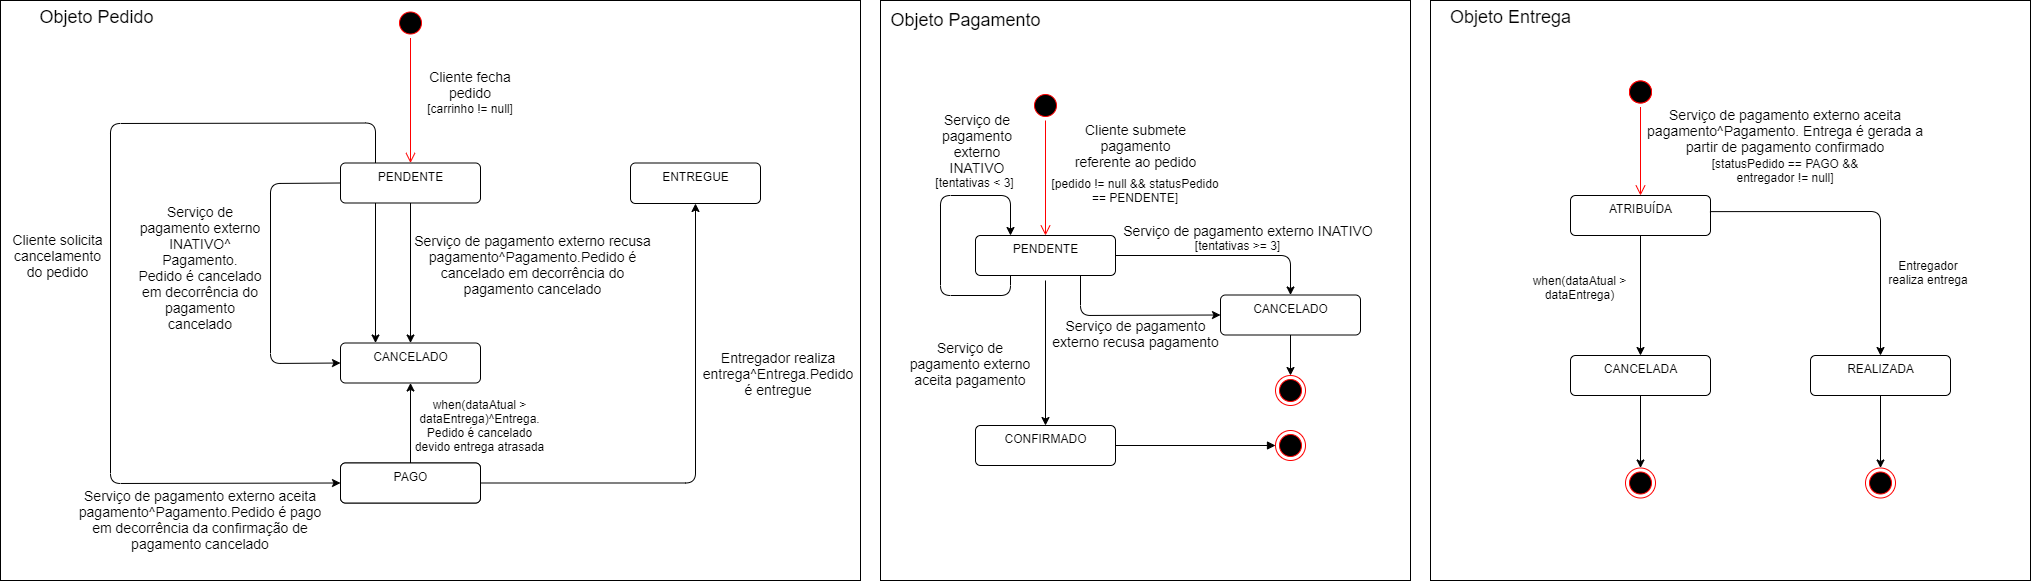
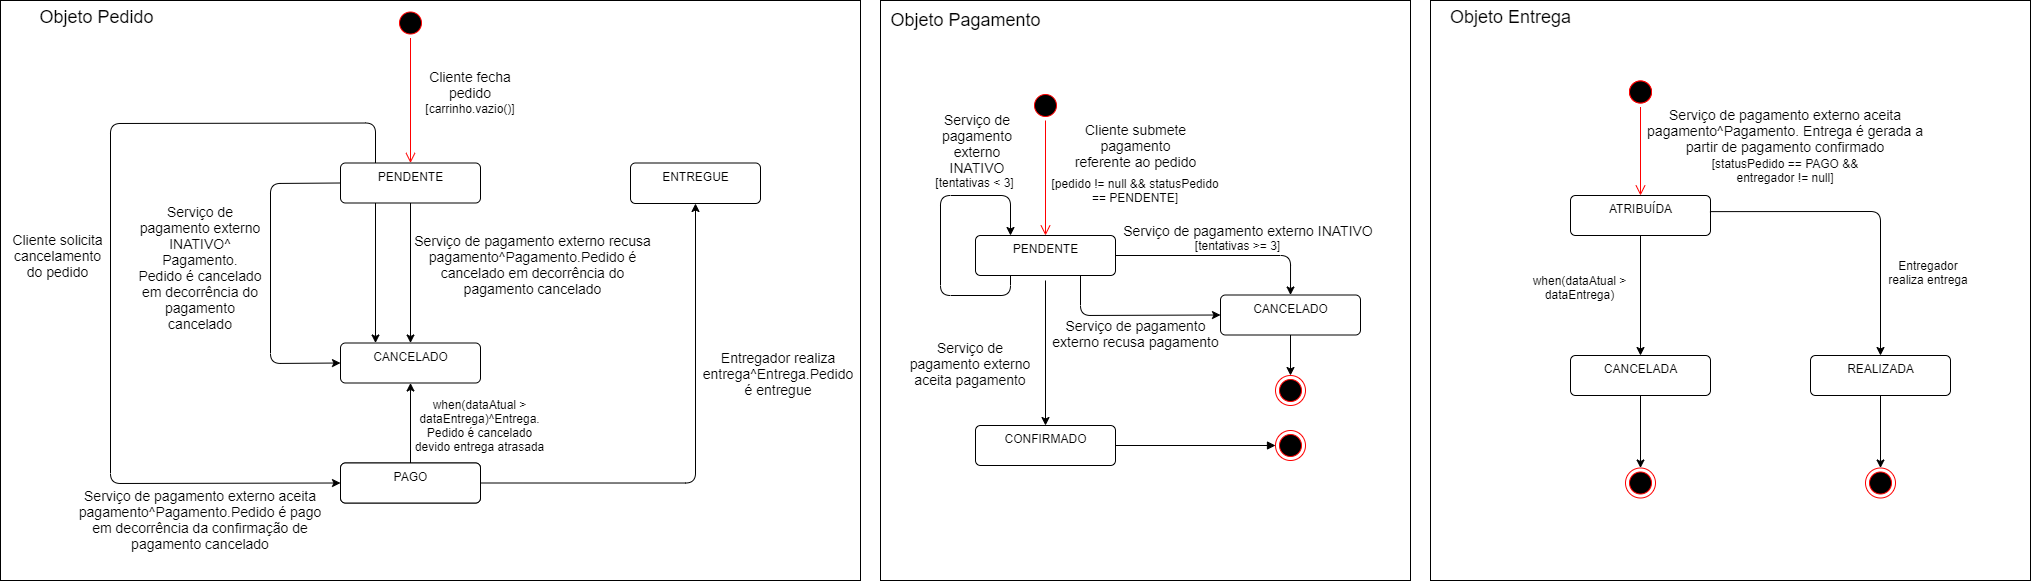
workflow funcional e perfeito

diff --git a/app-services/compras/src/main/java/br/com/ifeira/compra/handlers/HandlerValidacao.java b/app-services/compras/src/main/java/br/com/ifeira/compra/handlers/HandlerValidacao.java
@@ -18,14 +18,39 @@ public class HandlerValidacao extends PagamentoInBaseHandler {
 
     private PersistivelContextual<ProdutoFeira, String> produtoFeiraDAO;
     private Persistivel<Cupom, String> cupomDAO;
+    private JdbcTemplate jdbcTemplate;
 
     public HandlerValidacao(JdbcTemplate jdbcTemplate) {
+        this.jdbcTemplate = jdbcTemplate;
         this.produtoFeiraDAO = new ProdutoFeiraDAO(jdbcTemplate);
         this.cupomDAO = new CupomDAO(jdbcTemplate);
     }
 
+    public Boolean validarCobranca(String cobranca) {
+        return this.jdbcTemplate.query("select\n" +
+                "\tcase\n" +
+                "\t\twhen NUMERO is not null then false\n" +
+                "\t\telse true\n" +
+                "\tend item\n" +
+                "from\n" +
+                "\tPEDIDO p\n" +
+                "where\n" +
+                "\tCOBRANCA = ?", ps -> {
+            ps.setString(1, cobranca);
+        }, rs -> {
+            Boolean valido = true;
+            while (rs.next()) {
+                valido = rs.getBoolean("item");
+            }
+            return valido;
+        });
+    }
+
     @Override
     public PagamentoDTO handle(Pagamento pagamento) throws Exception {
+        Boolean validoCobranca = validarCobranca(pagamento.getPedido().getCobranca());
+        if(!validoCobranca) throw new Exception("Esse pedido já foi feito!");
+
         List<ProdutoQuantidade> prodQtdList = new ArrayList<>();
         for(ProdutoQuantidade pagQtd: pagamento.getPedido().getCarrinho().getListaProdutoQuantidade()) {
             ProdutoFeira produtoFeira = this.produtoFeiraDAO

diff --git a/app-services/compras/src/main/java/br/com/ifeira/compra/controller/PagamentoController.java b/app-services/compras/src/main/java/br/com/ifeira/compra/controller/PagamentoController.java
@@ -11,7 +11,6 @@ import br.com.ifeira.compra.handlers.PagamentoInHandler;
 import br.com.ifeira.compra.shared.dao.Persistivel;
 import br.com.ifeira.compra.shared.dao.PessoaDAO;
 import br.com.ifeira.compra.shared.entity.Pessoa;
-import br.com.ifeira.compra.shared.enums.StatusPagamento;
 import br.com.ifeira.compra.shared.enums.StatusPedido;
 import br.com.ifeira.compra.shared.utils.NotificacaoEmail;
 import br.com.ifeira.compra.shared.utils.Notificavel;
@@ -61,10 +60,10 @@ public class PagamentoController {
     }
 
     public PagamentoDTO enfileirarPagamento(Pagamento pagamento) throws Exception {
-        if(pagamento.getPedido() != null && pagamento.getPedido().getStatusPedido().equals(StatusPedido.PENDENTE)) throw new Exception("Não é possivel inserir PEDIDO que não esta PENDENTE");
+        if(pagamento.getPedido() != null && !pagamento.getPedido().getStatusPedido().equals(StatusPedido.PENDENTE)) throw new Exception("Não é possivel inserir PEDIDO que não esta PENDENTE");
         PagamentoInHandler pagChain = this.pagFactory.criarPagamentoInChain(jdbcTemplate, pagamentoProdutor);
         pagamento.setData(new Date());
-        pagamento.setStatusPagamento(StatusPagamento.PENDENTE);
+        pagamento.marcarPendente();
         setarDiaEntrega(pagamento);
         if (pagamento.getCreditCardId() == null) {
             String token = pegarTokenAutorizacaoAPIExterna();

diff --git a/app-services/pagamento/src/main/java/br/com/ifeira/pagamento/controller/PagamentoController.java b/app-services/pagamento/src/main/java/br/com/ifeira/pagamento/controller/PagamentoController.java
@@ -67,6 +67,7 @@ public class PagamentoController {
                 this.logger.error(e.getMessage());
             } else {
                 this.pagamentoDAO.persistirPagamentosComErro(pagamento);
+                pagamento.setStatus("CANCELADO");
                 String mensagem = "Pagamento referente ao PEDIDO " + pagamento.getNumeroPedido() + " STATUS: " + pagamento.getStatus();
                 this.notificar(pagamento, pagamento.getEmail(), mensagem);
                 throw new AmqpRejectAndDontRequeueException("DONT");
@@ -92,8 +93,8 @@ public class PagamentoController {
     @Transactional
     public void persistirPagamentosRealizados(PagamentoDTO pagamento) throws Exception {
         if (pagamento.getStatus().equals("CONFIRMADO")) {
-            pagamentoProdutor.enfileirarPagamentosConcluidos(pagamento);
             pagamentoDAO.persistirPagamentosComSucesso(pagamento);
+            pagamentoProdutor.enfileirarPagamentosConcluidos(pagamento);
         } else {
             pagamentoDAO.persistirPagamentosComErro(pagamento);
         }

diff --git a/app-services/pagamento/src/main/java/br/com/ifeira/pagamento/dao/PagamentoDAO.java b/app-services/pagamento/src/main/java/br/com/ifeira/pagamento/dao/PagamentoDAO.java
@@ -2,6 +2,7 @@ package br.com.ifeira.pagamento.dao;
 
 import br.com.ifeira.pagamento.shared.dto.PagamentoDTO;
 import org.springframework.jdbc.core.JdbcTemplate;
+import org.springframework.transaction.annotation.Transactional;
 
 import java.sql.Date;
 
@@ -34,6 +35,7 @@ public class PagamentoDAO {
         });
     }
 
+    @Transactional
     public void persistirPagamentosComErro(PagamentoDTO pagamento) {
         String statusPagamento = "CANCELADO";
         String statusPedido = "CANCELADO";
@@ -46,6 +48,7 @@ public class PagamentoDAO {
         }
     }
 
+    @Transactional
     public void persistirPagamentosComSucesso(PagamentoDTO pagamento) {
         String statusPagamento = "CONFIRMADO";
 

diff --git a/app-services/compras/src/main/java/br/com/ifeira/compra/controller/PedidoController.java b/app-services/compras/src/main/java/br/com/ifeira/compra/controller/PedidoController.java
@@ -55,7 +55,7 @@ public class PedidoController {
     }
 
     public Pedido fecharPedido(Carrinho carrinho, String cupom, Principal principal) throws Exception {
-        if(carrinho == null) throw new Exception("Carrinho Vazio");
+        if(carrinho.vazio()) throw new Exception("Carrinho Vazio");
         Pessoa pessoa = this.pessoaDAO.buscar(principal.getName());
         Cupom cupomObj = this.cupomDAO.buscar(cupom);
         Pedido pedido = pedidoFactory.criarPedido(carrinho, cupomObj, pessoa);

diff --git a/app-services/compras/src/main/java/br/com/ifeira/compra/entity/Pagamento.java b/app-services/compras/src/main/java/br/com/ifeira/compra/entity/Pagamento.java
@@ -33,6 +33,18 @@ public class Pagamento {
         this.salvaDadosPag = salvaDadosPag;
     }
 
+    public void marcarPendente() {
+        this.statusPagamento = StatusPagamento.PENDENTE;
+    }
+
+    public void marcarCancelado() {
+        this.statusPagamento = StatusPagamento.CANCELADO;
+    }
+
+    public void marcarConfirmado() {
+        this.statusPagamento = StatusPagamento.CONFIRMADO;
+    }
+
     public Pagamento() {
         this.salvaDadosPag = false;
     }

diff --git a/app-services/compras/compra-shared/src/main/java/br/com/ifeira/compra/shared/entity/Carrinho.java b/app-services/compras/compra-shared/src/main/java/br/com/ifeira/compra/shared/entity/Carrinho.java
@@ -34,4 +34,8 @@ public class Carrinho {
         this.pedidoRef = pedidoRef;
     }
 
+    public boolean vazio() {
+        return this.getListaProdutoQuantidade().size() == 0;
+    }
+
 }
